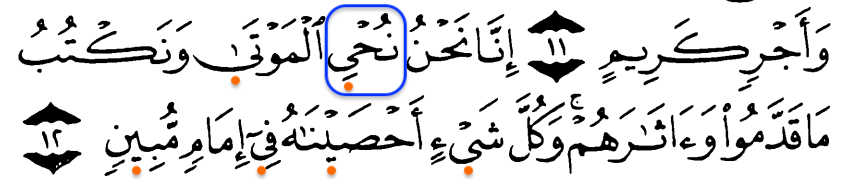
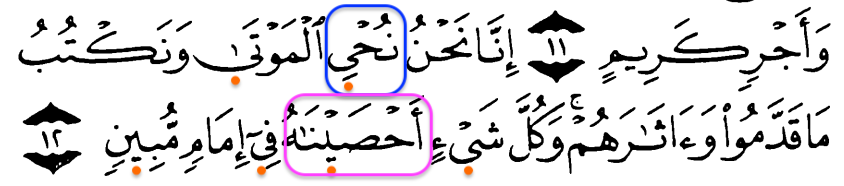
Fix AHSAYNAH words with the help of 36:12

Changed region(s): [[0.3389, 0.4839, 0.5237, 0.9677], [0.3081, 0.5914, 0.3389, 0.8602]]

diff --git a/docs/STEPS.md b/docs/STEPS.md
@@ -11510,3 +11510,17 @@
 
 ---
 ---
+
+451. AHSAYNAH
+```
+احصيناه -> احصينه
+```
+* 36:12
+
+<>
+* 78:29
+---
+![36:12](../pictures/36-12.png)
+
+---
+---
